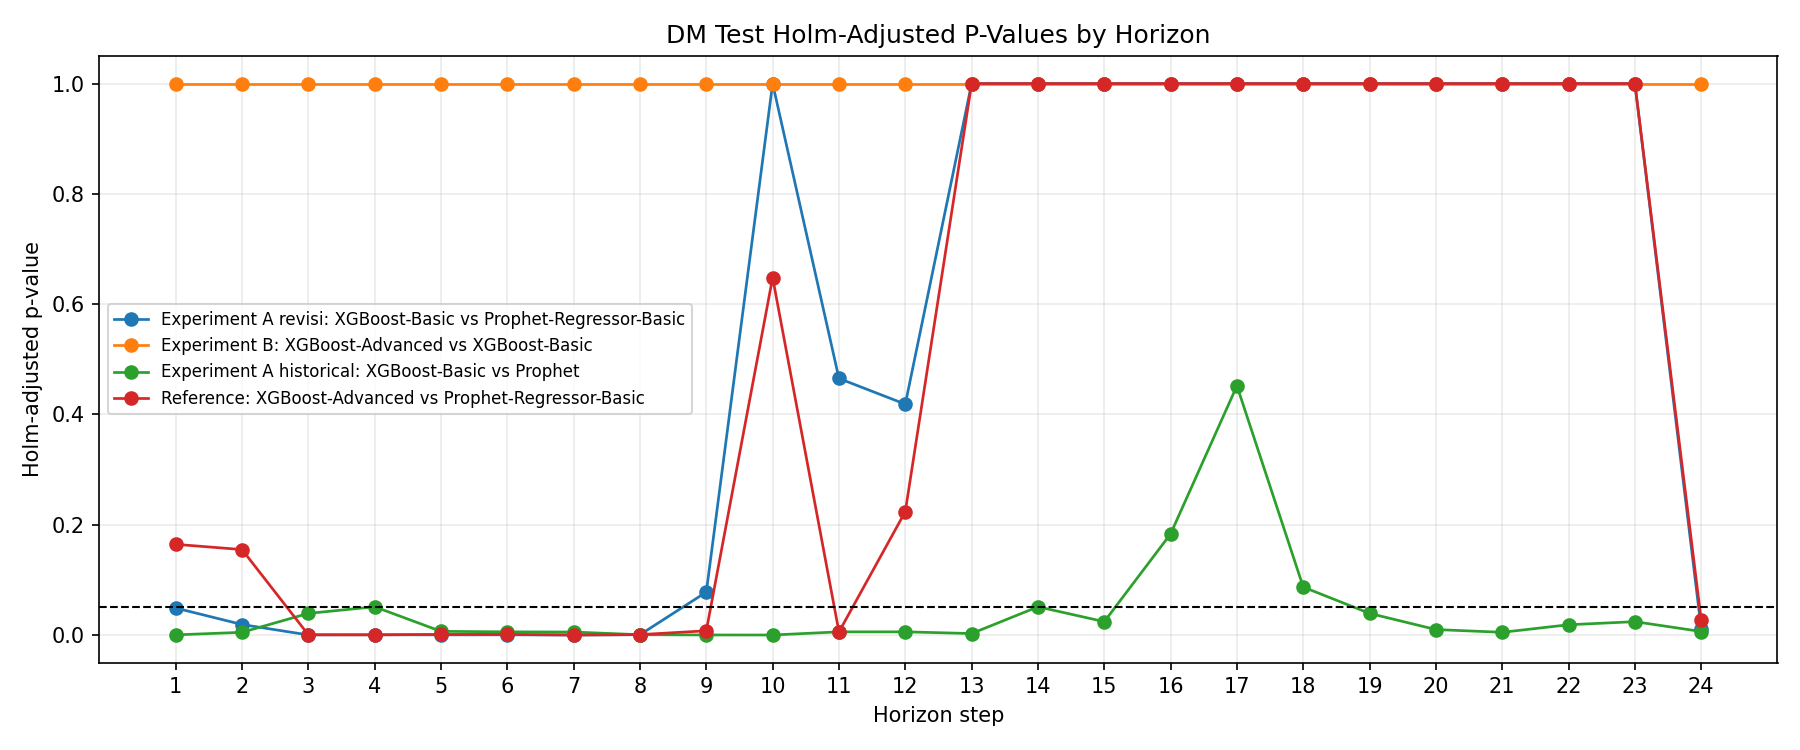
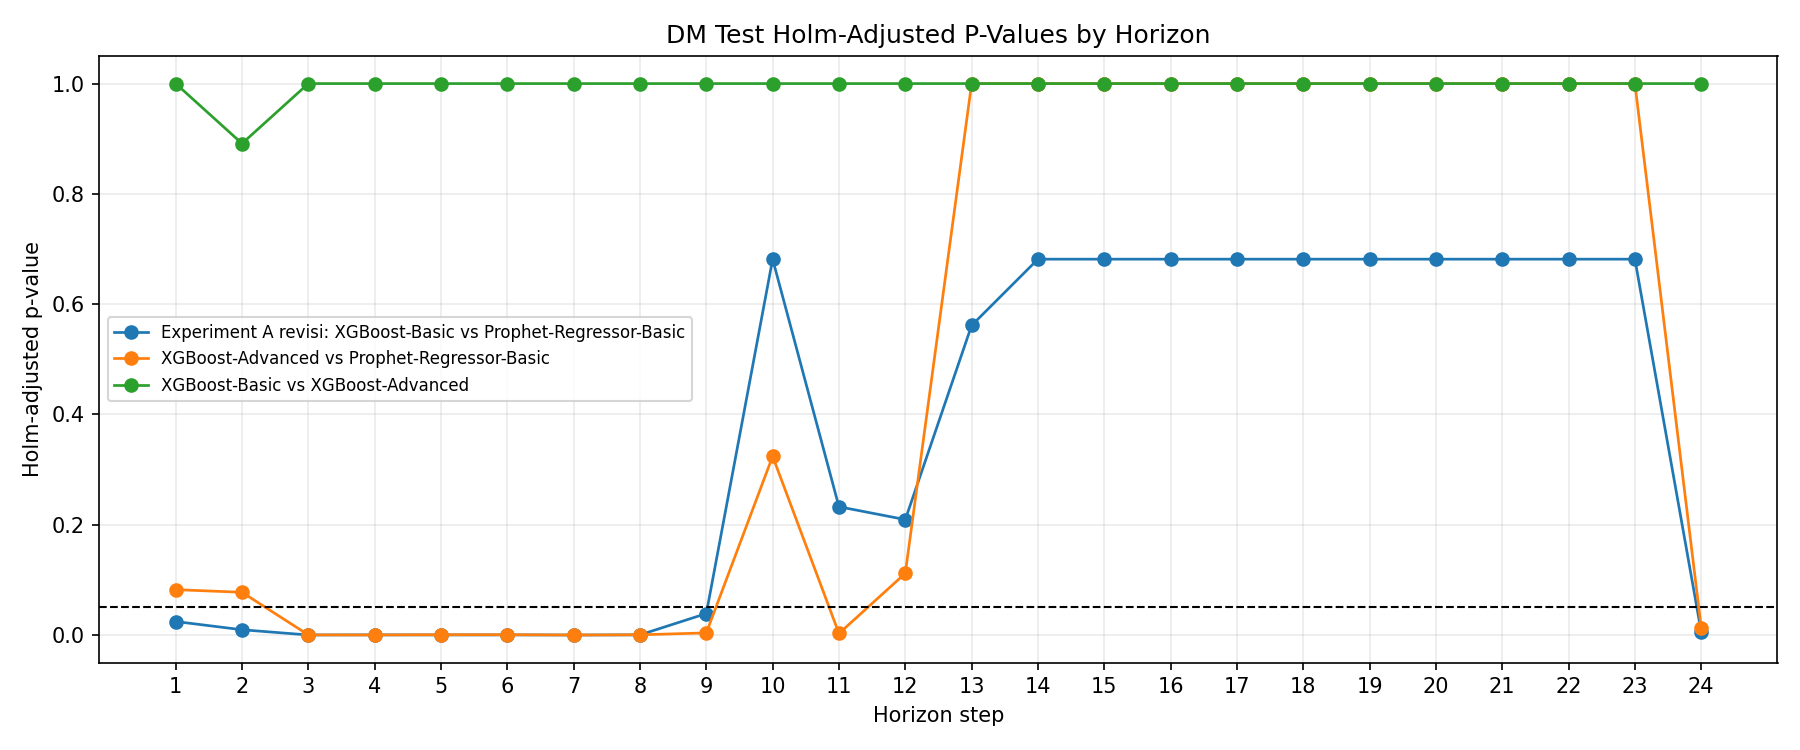
update uji dm

diff --git a/outputs/statistical_tests/dm_test_revisi_1/summaries/dm_test_revisi_1_summary.md b/outputs/statistical_tests/dm_test_revisi_1/summaries/dm_test_revisi_1_summary.md
@@ -1,10 +1,10 @@
 # Diebold-Mariano Test Revisi 1
 
-Run UTC: 2026-06-08T03:51:26.428400+00:00
+Run UTC: 2026-06-14T06:14:38.594213+00:00
 
 ## Scope
 
-Tahap ini menambahkan uji signifikansi statistik pada hasil final test. Script hanya membaca artefak prediksi final test yang sudah ada; tidak ada tuning, retraining, atau prediksi ulang.
+Tahap ini menambahkan uji signifikansi statistik pada hasil final test untuk semua kombinasi pairwise dari Prophet-Regressor-Basic, XGBoost-Basic, dan XGBoost-Advanced. Script hanya membaca artefak prediksi final test yang sudah ada; tidak ada tuning, retraining, atau prediksi ulang.
 
 ## Methodology
 
@@ -12,50 +12,56 @@ Tahap ini menambahkan uji signifikansi statistik pada hasil final test. Script h
 - Robustness check: DM test pada rata-rata absolute error per origin_block 24 jam.
 - Secondary analysis: DM test per horizon step dengan koreksi Holm dan Benjamini-Hochberg.
 - Sensitivity analysis: timestamp-level DM test dengan HAC lag 23.
+- One-sided DM test: alternative `greater`.
 - Loss differential d_t = loss_baseline - loss_challenger; nilai positif berarti challenger lebih baik.
 
 ## Primary DM Test
 
-| comparison | baseline_model | challenger_model | winner_by_mean_loss | dm_statistic | p_value | significant_alpha_0_05 | dm_test_conclusion |
-| --- | --- | --- | --- | --- | --- | --- | --- |
-| Experiment A revisi: XGBoost-Basic vs Prophet-Regressor-Basic | Prophet-Regressor-Basic | XGBoost-Basic | XGBoost-Basic | 2.673709 | 0.012191 | True | Signifikan pada alpha 0.05; XGBoost-Basic memiliki rata-rata loss lebih rendah pada level blok 24 jam. |
-| Experiment B: XGBoost-Advanced vs XGBoost-Basic | XGBoost-Basic | XGBoost-Advanced | XGBoost-Basic | -0.915965 | 0.367240 | False | Tidak signifikan pada alpha 0.05; belum cukup bukti statistik bahwa loss kedua model berbeda pada level blok 24 jam. |
+| comparison | baseline_model | challenger_model | winner_by_mean_loss | dm_statistic | p_value | significant_alpha_0_05 | alternative | dm_test_conclusion |
+| --- | --- | --- | --- | --- | --- | --- | --- | --- |
+| Experiment A revisi: XGBoost-Basic vs Prophet-Regressor-Basic | Prophet-Regressor-Basic | XGBoost-Basic | XGBoost-Basic | 2.673709 | 0.006096 | True | greater | Signifikan pada alpha 0.05; XGBoost-Basic memiliki rata-rata loss lebih rendah daripada Prophet-Regressor-Basic pada level blok 24 jam. |
+| XGBoost-Advanced vs Prophet-Regressor-Basic | Prophet-Regressor-Basic | XGBoost-Advanced | XGBoost-Advanced | 2.661972 | 0.006268 | True | greater | Signifikan pada alpha 0.05; XGBoost-Advanced memiliki rata-rata loss lebih rendah daripada Prophet-Regressor-Basic pada level blok 24 jam. |
+| XGBoost-Basic vs XGBoost-Advanced | XGBoost-Advanced | XGBoost-Basic | XGBoost-Basic | 0.915965 | 0.183620 | False | greater | Tidak signifikan pada alpha 0.05; belum cukup bukti statistik bahwa XGBoost-Basic memiliki rata-rata loss lebih rendah daripada XGBoost-Advanced pada level blok 24 jam. |
 
 ## Block-Level Robustness
 
 Squared error:
 
-| comparison | loss_type | baseline_model | challenger_model | mean_loss_difference_baseline_minus_challenger | percent_loss_reduction_challenger_vs_baseline | winner_by_mean_loss | dm_statistic | p_value | significant_alpha_0_05 | n_obs | hac_lags |
-| --- | --- | --- | --- | --- | --- | --- | --- | --- | --- | --- | --- |
-| Experiment A revisi: XGBoost-Basic vs Prophet-Regressor-Basic | squared_error | Prophet-Regressor-Basic | XGBoost-Basic | 744510.844994 | 58.936899 | XGBoost-Basic | 2.673709 | 0.012191 | True | 30 | 0 |
-| Experiment B: XGBoost-Advanced vs XGBoost-Basic | squared_error | XGBoost-Basic | XGBoost-Advanced | -369968.148358 | -71.322877 | XGBoost-Basic | -0.915965 | 0.367240 | False | 30 | 0 |
+| comparison | loss_type | baseline_model | challenger_model | mean_loss_difference_baseline_minus_challenger | percent_loss_reduction_challenger_vs_baseline | winner_by_mean_loss | dm_statistic | p_value | significant_alpha_0_05 | alternative | n_obs | hac_lags |
+| --- | --- | --- | --- | --- | --- | --- | --- | --- | --- | --- | --- | --- |
+| Experiment A revisi: XGBoost-Basic vs Prophet-Regressor-Basic | squared_error | Prophet-Regressor-Basic | XGBoost-Basic | 744510.844994 | 58.936899 | XGBoost-Basic | 2.673709 | 0.006096 | True | greater | 30 | 0 |
+| XGBoost-Advanced vs Prophet-Regressor-Basic | squared_error | Prophet-Regressor-Basic | XGBoost-Advanced | 374542.696636 | 29.649515 | XGBoost-Advanced | 2.661972 | 0.006268 | True | greater | 30 | 0 |
+| XGBoost-Basic vs XGBoost-Advanced | squared_error | XGBoost-Advanced | XGBoost-Basic | 369968.148358 | 41.630679 | XGBoost-Basic | 0.915965 | 0.183620 | False | greater | 30 | 0 |
 
 Absolute error:
 
-| comparison | loss_type | baseline_model | challenger_model | mean_loss_difference_baseline_minus_challenger | percent_loss_reduction_challenger_vs_baseline | winner_by_mean_loss | dm_statistic | p_value | significant_alpha_0_05 | n_obs | hac_lags |
-| --- | --- | --- | --- | --- | --- | --- | --- | --- | --- | --- | --- |
-| Experiment A revisi: XGBoost-Basic vs Prophet-Regressor-Basic | absolute_error | Prophet-Regressor-Basic | XGBoost-Basic | 318.052230 | 37.969668 | XGBoost-Basic | 5.381688 | 0.000009 | True | 30 | 0 |
-| Experiment B: XGBoost-Advanced vs XGBoost-Basic | absolute_error | XGBoost-Basic | XGBoost-Advanced | -57.570436 | -11.079847 | XGBoost-Basic | -0.763669 | 0.451233 | False | 30 | 0 |
+| comparison | loss_type | baseline_model | challenger_model | mean_loss_difference_baseline_minus_challenger | percent_loss_reduction_challenger_vs_baseline | winner_by_mean_loss | dm_statistic | p_value | significant_alpha_0_05 | alternative | n_obs | hac_lags |
+| --- | --- | --- | --- | --- | --- | --- | --- | --- | --- | --- | --- | --- |
+| Experiment A revisi: XGBoost-Basic vs Prophet-Regressor-Basic | absolute_error | Prophet-Regressor-Basic | XGBoost-Basic | 318.052230 | 37.969668 | XGBoost-Basic | 5.381688 | 0.000004 | True | greater | 30 | 0 |
+| XGBoost-Advanced vs Prophet-Regressor-Basic | absolute_error | Prophet-Regressor-Basic | XGBoost-Advanced | 260.481794 | 31.096802 | XGBoost-Advanced | 7.489954 | 0.000000 | True | greater | 30 | 0 |
+| XGBoost-Basic vs XGBoost-Advanced | absolute_error | XGBoost-Advanced | XGBoost-Basic | 57.570436 | 9.974669 | XGBoost-Basic | 0.763669 | 0.225617 | False | greater | 30 | 0 |
 
 ## Horizon-Level Summary
 
 | comparison | n_horizons | n_significant_holm | n_significant_bh | mean_effect |
 | --- | --- | --- | --- | --- |
-| Experiment A revisi: XGBoost-Basic vs Prophet-Regressor-Basic | 24 | 9 | 10 | 744510.844994 |
-| Experiment B: XGBoost-Advanced vs XGBoost-Basic | 24 | 0 | 0 | -369968.148358 |
+| Experiment A revisi: XGBoost-Basic vs Prophet-Regressor-Basic | 24 | 10 | 12 | 744510.844994 |
+| XGBoost-Advanced vs Prophet-Regressor-Basic | 24 | 9 | 13 | 374542.696636 |
+| XGBoost-Basic vs XGBoost-Advanced | 24 | 0 | 0 | 369968.148358 |
 
 ## Timestamp-Level Sensitivity
 
-| comparison | loss_type | baseline_model | challenger_model | mean_loss_difference_baseline_minus_challenger | percent_loss_reduction_challenger_vs_baseline | winner_by_mean_loss | dm_statistic | p_value | significant_alpha_0_05 | n_obs | hac_lags |
-| --- | --- | --- | --- | --- | --- | --- | --- | --- | --- | --- | --- |
-| Experiment A revisi: XGBoost-Basic vs Prophet-Regressor-Basic | squared_error | Prophet-Regressor-Basic | XGBoost-Basic | 744510.844994 | 58.936899 | XGBoost-Basic | 2.957230 | 0.003206 | True | 720 | 23 |
-| Experiment B: XGBoost-Advanced vs XGBoost-Basic | squared_error | XGBoost-Basic | XGBoost-Advanced | -369968.148358 | -71.322877 | XGBoost-Basic | -1.004811 | 0.315326 | False | 720 | 23 |
+| comparison | loss_type | baseline_model | challenger_model | mean_loss_difference_baseline_minus_challenger | percent_loss_reduction_challenger_vs_baseline | winner_by_mean_loss | dm_statistic | p_value | significant_alpha_0_05 | alternative | n_obs | hac_lags |
+| --- | --- | --- | --- | --- | --- | --- | --- | --- | --- | --- | --- | --- |
+| Experiment A revisi: XGBoost-Basic vs Prophet-Regressor-Basic | squared_error | Prophet-Regressor-Basic | XGBoost-Basic | 744510.844994 | 58.936899 | XGBoost-Basic | 2.957230 | 0.001603 | True | greater | 720 | 23 |
+| XGBoost-Advanced vs Prophet-Regressor-Basic | squared_error | Prophet-Regressor-Basic | XGBoost-Advanced | 374542.696636 | 29.649515 | XGBoost-Advanced | 2.792545 | 0.002684 | True | greater | 720 | 23 |
+| XGBoost-Basic vs XGBoost-Advanced | squared_error | XGBoost-Advanced | XGBoost-Basic | 369968.148358 | 41.630679 | XGBoost-Basic | 1.004811 | 0.157663 | False | greater | 720 | 23 |
 
 ## Time Cost Computing
 
 | experiment_name | stage | statistical_test | n_prediction_rows | n_models | n_comparisons | n_loss_types | n_block_level_tests | n_by_horizon_tests | n_timestamp_level_tests | prediction_time_seconds | train_time_seconds | total_runtime_seconds | status |
 | --- | --- | --- | --- | --- | --- | --- | --- | --- | --- | --- | --- | --- | --- |
-| dm_test_revisi_1 | statistical_significance_testing_final_test | Diebold-Mariano | 2880 | 4 | 4 | 2 | 8 | 192 | 8 | 0.000000 | 0.000000 | 0.909599 | success |
+| dm_test_revisi_1 | statistical_significance_testing_final_test | Diebold-Mariano | 2160 | 3 | 3 | 2 | 6 | 144 | 6 | 0.000000 | 0.000000 | 16.063022 | success |
 
 ## Interpretation Notes
 